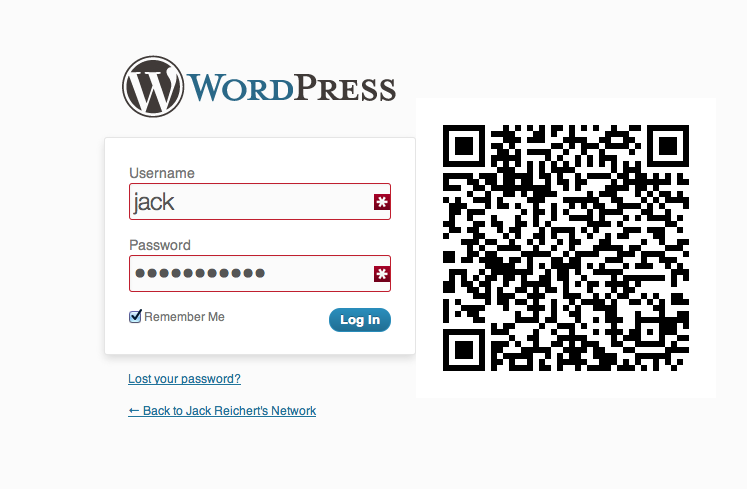
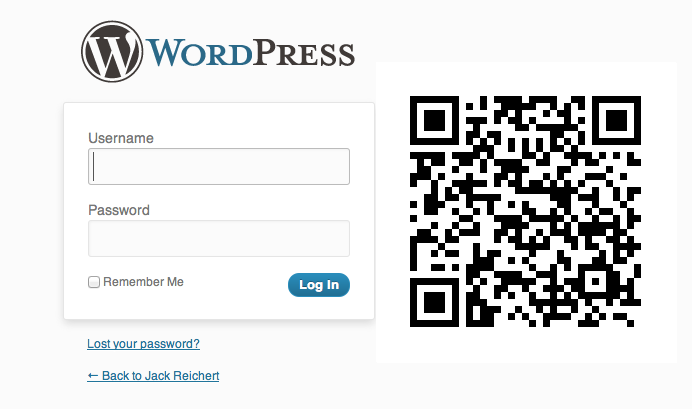
version 1.1

diff --git a/qrLogin.js b/qrLogin.js
@@ -2,17 +2,18 @@
 	$(document).ready(function(){	
 		var qrHash = $('meta[name=qrHash]').attr('content');
 		if ($('body').hasClass('login')){	
-			var hashUrl = 'http://chart.googleapis.com/chart?chs=300x300&cht=qr&chl='+encodeURIComponent('http://'+window.location.hostname+'/wp-admin/options-general.php?page=qr-login&qrHash='+qrHash);
+			var hashUrl = 'http://chart.googleapis.com/chart?chs=300x300&cht=qr&chl='+encodeURIComponent($('meta[name=qrHash]').attr('wpurl')+'/wp-admin/options-general.php?page=qr-login&qrHash='+qrHash);
 	
 			$('#login h1').append('<img id="qrHash">');
 			
 			var loginOffset = $('#loginform').offset();
 			$('#qrHash').attr('src',hashUrl).css({'display':'block','position':'absolute','right':(loginOffset.left-310),'top':loginOffset.top-55});					
 			var sendAjax = function() {
-				$.post(qrLoginAjax.ajaxurl, { 
+				$.post(qrLoginAjaxRequest.ajaxurl, { 
 					action : 'ajax-qrLogin',
-			        qrHash : qrHash
-			    },function( response ) {
+			        qrHash : qrHash,
+			        QRnonce : qrLoginAjaxRequest.qrLoginNonce
+			    },function( response ){
 			    	if (response.hash == qrHash){
 				        window.location = "http://"+window.location.hostname+"/wp-login.php?qrHash="+response.hash;
 				    } else {

diff --git a/qrLogin.php b/qrLogin.php
@@ -2,8 +2,8 @@
 /*
 Plugin Name: No More Passwords*
 Plugin URI: http://www.jackreichert.com/plugins/qr-login/
-Description: Lets WordPress users login using a QR code
-Version: 0.1
+Description: Lets WordPress users login to the Dashboard using a QR code
+Version: 1.1
 Author: Jack Reichert
 Author URI: http://www.jackreichert.com
 License: GPL2
@@ -14,15 +14,16 @@ License: GPL2
 function wp_qr_code_login_head() {
 	// Enqueue script that creates and places QR-code on login page
 	wp_enqueue_script( 'qrLogin_js', plugins_url('/qrLogin.js', __FILE__), array( 'jquery' ) );
-	wp_localize_script( 'qrLogin_js', 'qrLoginAjax', array( 'ajaxurl' => admin_url( 'admin-ajax.php' ) ) );
+	wp_localize_script( 'qrLogin_js', 'qrLoginAjaxRequest', array( 'ajaxurl' => admin_url( 'admin-ajax.php' ), 'qrLoginNonce' => wp_create_nonce( 'qrLogin-nonce' ) ) );
 
 	global $wpdb;
 	$hash = md5(uniqid(rand(), true)); ?>
-	<meta name="qrHash" content="<?php echo $hash; ?>"?>
+	<meta name="qrHash" content="<?php echo $hash; ?>" wpurl="<?php bloginfo('url'); ?>">
 
 <?php
+	usleep(500);
 	$table_name = $wpdb->prefix . "qrLogin";
-	$rows_affected = $wpdb->insert( $table_name, array( 'timestamp' => current_time('mysql'), 'uname' => 'guest', 'hash' => $hash ) );
+	$rows_affected = $wpdb->insert( $table_name, array( 'timestamp' => current_time('mysql',1), 'uname' => 'guest', 'hash' => $hash, 'uip' => $_SERVER['REMOTE_ADDR']) );
 
 }
 // adds init to login header
@@ -32,20 +33,22 @@ add_action('login_head', 'wp_qr_code_login_head');
 function wp_qr_code_init_head (){
 	if (isset($_GET['qrHash']) && $_GET['qrHash'] != 'used'){
 		global $wpdb;
-		$hash = mysql_real_escape_string($_GET['qrHash']);
-		$qrUserLogin = $wpdb->get_results("SELECT * FROM ".$wpdb->prefix."qrLogin WHERE hash = '".$hash."'");
+		$hash = mysql_real_escape_string(htmlentities($_GET['qrHash']));
+		$qrUserLogin = $wpdb->get_results($wpdb->prepare("SELECT * FROM ".$wpdb->prefix."qrLogin WHERE hash = %s",$hash));
 		$user_login = $qrUserLogin[0]->uname;
-
+		
 		if ($user_login != NULL && $user_login != 'guest'){
 
-	        $user = get_userdatabylogin($user_login);
+	        $user = get_user_by('login',$user_login);
 	        $user_id = $user->ID;
 
 	        wp_set_current_user($user_id, $user_login);
 	        wp_set_auth_cookie($user_id);
 	        do_action('wp_login', $user_login);
 			
-			$mylink = $wpdb->get_results("UPDATE ".$wpdb->prefix."qrLogin SET hash = 'used' WHERE uname = '".$user_login."'");
+			$table_name = $wpdb->prefix . "qrLogin";
+			$rows_affected = $wpdb->update( $table_name, array('hash' => 'used'), array('uname' => $user_login) );
+
 			echo '<script type="text/javascript">window.location = "'.get_bloginfo("url").'/wp-admin/";</script>'; 
 		
 		} 
@@ -58,15 +61,18 @@ add_action('init', 'wp_qr_code_init_head');
 // The viewer will not be logged in
 add_action( 'wp_ajax_nopriv_ajax-qrLogin', 'ajax_check_logs_in' );
 function ajax_check_logs_in() {
+	$nonce = mysql_real_escape_string(htmlentities($_POST['QRnonce']));
 
+	if ( ! wp_verify_nonce( $nonce, 'qrLogin-nonce' ) ) { die ( 'Busted!'); }
+	
 	// Gets current time
 	$time = time();
 	while((time() - $time) < 30) {
 		
 		// get the submitted qrHash
-		$qrHash = mysql_real_escape_string($_POST['qrHash']);
+		$qrHash = mysql_real_escape_string(htmlentities($_POST['qrHash']));
 		global $wpdb;
-		$qrUserLogin = $wpdb->get_results("SELECT * FROM ".$wpdb->prefix."qrLogin WHERE hash = '".$qrHash."'");
+		$qrUserLogin = $wpdb->get_results($wpdb->prepare("SELECT * FROM ".$wpdb->prefix."qrLogin WHERE hash = %s",$qrHash));
 	 
 	    if($qrUserLogin[0]->uname != 'guest') {
 	    	header( "Content-Type: application/json" );
@@ -74,7 +80,7 @@ function ajax_check_logs_in() {
 	        break;
 	    }
 	 
-	    usleep(25000);
+	    usleep(500);
 	}	
  
     // IMPORTANT: don't forget to "exit"
@@ -82,70 +88,152 @@ function ajax_check_logs_in() {
 }
 
 
-// manage db version
-global $qrLogin_db_version;
-$qrLogin_db_version = "0.1";
-
 // Sets up db
-function jal_install() {
+function qrLoginDB_install() {
+	global $qrLogin_db_version;
+	$qrLogin_db_version = "0.1";
    global $wpdb;
-   global $qrLogin_db_version;
-
-   $table_name = $wpdb->prefix . "qrLogin";
-      
+   $table_name = $wpdb->prefix . "qrLogin";      
    $sql = "CREATE TABLE " . $table_name . " (
-	  id mediumint(9) NOT NULL AUTO_INCREMENT,
-	  timestamp datetime DEFAULT '0000-00-00 00:00:00' NOT NULL,
-	  hash text NOT NULL,
-	  uname tinytext NOT NULL,
-	  UNIQUE KEY id (id)
-    );";
+		id mediumint(9) NOT NULL AUTO_INCREMENT,
+		timestamp datetime DEFAULT '0000-00-00 00:00:00' NOT NULL,
+		hash text NOT NULL,
+		uname tinytext NOT NULL,
+		UNIQUE KEY id (id)
+	);";
 
    require_once(ABSPATH . 'wp-admin/includes/upgrade.php');
    dbDelta($sql);
- 
-   add_option("qrLogin_db_version", $qrLogin_db_version);
+   update_option("qrLogin_db_version", $qrLogin_db_version);
+
 }
 
+function qrLoginDB_update02(){
+	global $wpdb;
+	$table_name = $wpdb->prefix . "qrLogin";      
+	$sql = "ALTER TABLE " . $table_name . " 
+		ADD uIP VARCHAR(55) DEFAULT '' NOT NULL";
+	
+	$update = $wpdb->get_results($sql);
+
+}
+
+function qrLogin_update_db_check() { 
+	global $qrLogin_db_version;
+	$qrLogin_db_version = "0.2";
+    if (get_site_option('qrLogin_db_version') != $qrLogin_db_version) {
+        qrLoginDB_update02();
+    }
+    update_option("qrLogin_db_version", $qrLogin_db_version);
+}
+add_action('plugins_loaded', 'qrLogin_update_db_check');
+
 // Installs db on plugin activation
-register_activation_hook(__FILE__,'jal_install');
+register_activation_hook(__FILE__,'qrLoginDB_install');
 
 // Admin page. Saves user to db.
 function qrLogin_plugin_menu() {
-	add_options_page('QR Login Plugin Options', 'QR Login', 'manage_options', 'qr-login', 'qrLogin_plugin_options');
+	add_options_page('No More Passwords Plugin Options', 'No More Passwords', 'manage_options', 'qr-login', 'qrLogin_plugin_options');
 }
 function qrLogin_plugin_options() {
 	if (!current_user_can('manage_options'))  {
 		wp_die( __('You do not have sufficient permissions to access this page.') );
-	}
-	$current_user = wp_get_current_user();
-	$hash = mysql_real_escape_string($_GET['qrHash']);
-	echo '<p>Hello '.$current_user->user_login.'</p>';
-	echo '<div class="wrap">';
-	echo '<p>You have successfully logged in.</p>';
-	echo '</div>';
-	
-	global $wpdb;
-	if (isset($_GET['qrHash'])){
-		$mylink = $wpdb->get_results("UPDATE ".$wpdb->prefix."qrLogin SET uname = '".$current_user->user_login."' WHERE hash = '".$hash."'");
+	} ?>
+	<style>
+		@media only screen and (max-width: 550px), (max-device-width: 550px) {
+			#adminmenuwrap, #wpadminbar, #adminmenuback { display: none; }	
+			#wpcontent { margin: 0; }
+			h1 { font-size: 3.5em; line-height: 1.5em; width: 80%; margin: 1em auto; text-align: center; }
+			input { display:block; width: 80%; height: 5em; font-size: 5em; margin: 0.5em auto;  }
+		}
+	</style>
+<?php
+	if (isset($_GET['QRnonceAdmin']) && isset($_GET['qrHash'])){
+		if ( ! wp_verify_nonce( mysql_real_escape_string(htmlentities($_GET['QRnonceAdmin'])), 'QRnonceAdmin' ) ) { 
+			die ( 'Busted!'); 
+		}
+		
+		$current_user = wp_get_current_user();
+		$hash = mysql_real_escape_string(htmlentities($_GET['qrHash'])); ?>
+		<h1>Howdy, <?php echo $current_user->display_name; ?>.<br>
+			You have successfully logged in.</h1> 
+<?php		
+		global $wpdb;
+		$table_name = $wpdb->prefix . "qrLogin";
+		$rows_affected = $wpdb->update( $table_name, array('uname' => $current_user->user_login), array('hash' => $hash) );	
+
+	} elseif (isset($_GET['qrHash'])){ 
+		if (isset($_GET['reject'])) { 
+		?>
+		<h1>The requester will not be logged in.</h1>
+		<?php	
+		} else {
+			$qrHash = mysql_real_escape_string(htmlentities($_GET['qrHash']));
+			global $wpdb;
+			$qrUserLogin = $wpdb->get_results($wpdb->prepare("SELECT * FROM ".$wpdb->prefix."qrLogin WHERE hash = %s", $qrHash));
+			?>
+			<h1>A login request has been made from<br>
+			<?php echo $qrUserLogin[0]->uIP; ?><br>
+			are you sure that you want to log in?</h1>
+			<form action="" method="get">
+				<input type="hidden" name="page" value="qr-login">
+				<input type="hidden" name="qrHash" value="<?php echo mysql_real_escape_string(htmlentities($_GET['qrHash'])); ?>">
+				<input type="hidden" name="QRnonceAdmin" value="<?php echo wp_create_nonce('QRnonceAdmin'); ?>">
+				<input type="submit" value="YES">
+			</form>
+			
+			<form action="" method="get">
+				<input type="hidden" name="page" value="qr-login">
+				<input type="hidden" name="qrHash" value="<?php echo mysql_real_escape_string(htmlentities($_GET['qrHash'])); ?>">
+				<input type="hidden" name="reject" value="busted">
+				<input type="submit" value="NO">
+			</form>
+			<?php	
+		}
+	} else {
+		if (current_user_can('manage_options')){ ?>
+			<h2>Logs</h2>
+		<?php	
+			global $wpdb;
+			$logs = $wpdb->get_results("SELECT * FROM ".$wpdb->prefix."qrLogin WHERE hash = 'used'");
+			foreach($logs as $log){
+				echo $log->uname.' logged in on '.$log->timestamp.'<br>';
+			}
+		}
 	}
 }
+
+
+function newSchedules($schedules){ // Creates new 
+	$schedules['threeMin'] = array('interval'=> 180, 'display'=>  __('Once Every 3 Minutes'));
+	$schedules['fiveMin'] = array('interval'=> 300, 'display'=>  __('Once Every 5 Minutes'));
+	$schedules['tenMin'] = array('interval'=> 600, 'display'=>  __('Once Every 10 Minutes'));  
+	$schedules['fifteenMin'] = array('interval'=> 900, 'display'=>  __('Once Every 15 Minutes'));    
+	$schedules['thirtyMin'] = array('interval'=> 1800, 'display'=>  __('Once Every 30 Minutes'));      
+  
+return $schedules;
+}
+
+add_filter('cron_schedules', 'newSchedules');
+
+
 add_action('admin_menu', 'qrLogin_plugin_menu');
 
 // Cleans db from extra entries hourly
 function qr_cron_activate() {
-	wp_schedule_event(time(), 'hourly', 'qr_hourly_clean');
+	wp_schedule_event(time(), 'fifteenMin', 'qr_fifteen_clean');
 }
-function qr_clean_hourly(){
+function qr_housecleaning(){
 	global $wpdb;
-	$mylink = $wpdb->get_results("DELETE FROM ".$wpdb->prefix."qrLogin WHERE uname = 'guest'");
+	$mylink = $wpdb->get_results("DELETE FROM ".$wpdb->prefix."qrLogin WHERE uname = 'guest' AND TIMESTAMPDIFF(MINUTE, timestamp, UTC_TIMESTAMP()) > 15");
 }
 register_activation_hook(__FILE__, 'qr_cron_activate');
-add_action('qr_hourly_clean', 'qr_clean_hourly');
+add_action('qr_fifteen_clean', 'qr_housecleaning');
 
 // Clears cron on deactivation
 function qr_cron_deactivate() {
-	wp_clear_scheduled_hook('qr_hourly_clean');
-	qr_clean_hourly();
+	wp_clear_scheduled_hook('qr_fifteen_clean');
+	global $wpdb;
+	$mylink = $wpdb->get_results("DELETE FROM ".$wpdb->prefix."qrLogin WHERE uname = 'guest'");
 }
 register_deactivation_hook(__FILE__, 'qr_cron_deactivate');
